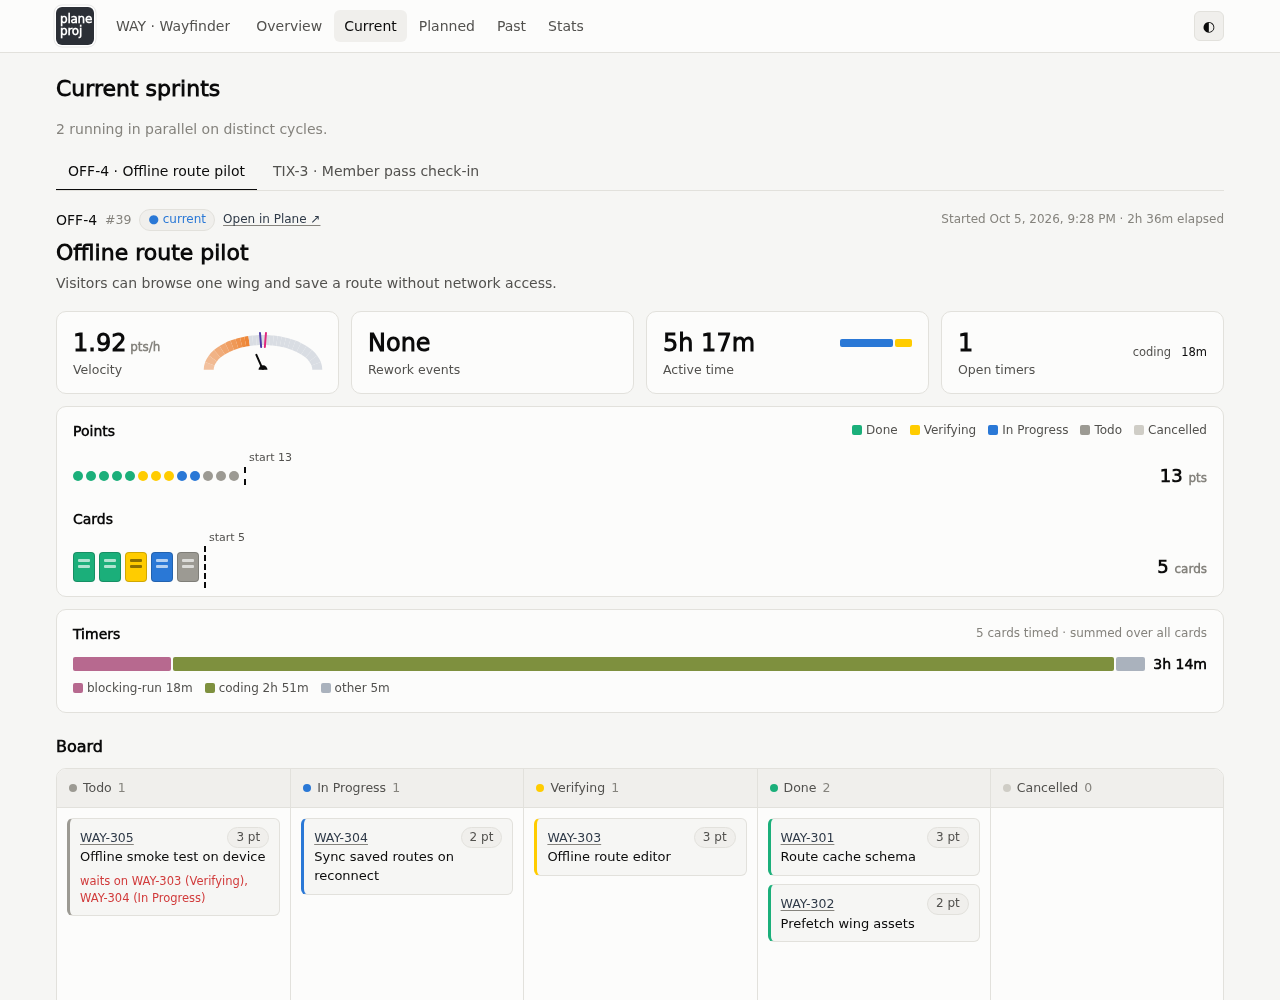
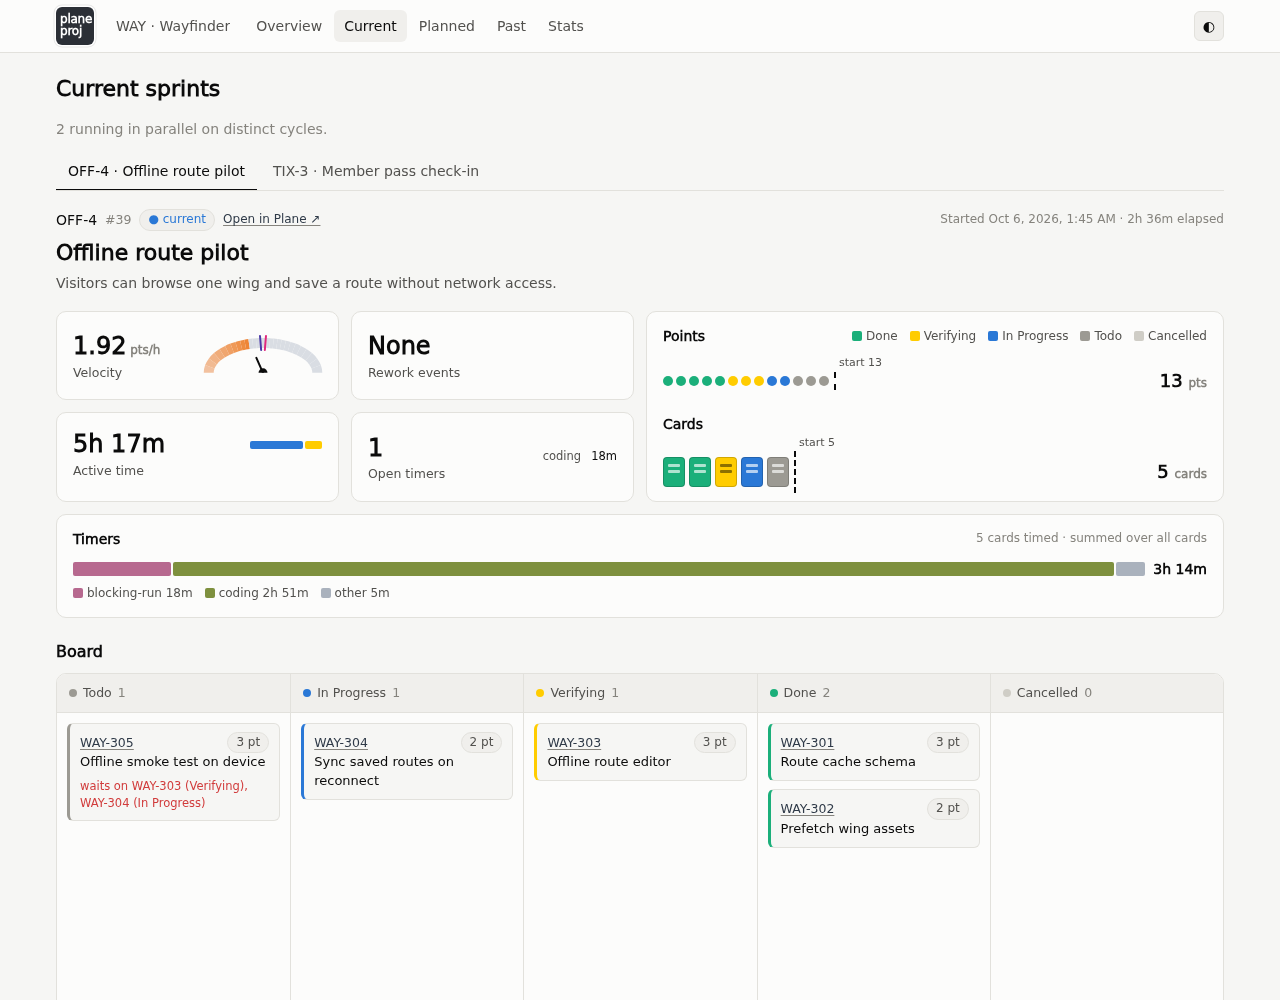
feat(web): Current tiles as 2 x 2 beside the points and cards panel
With points as dots, the full-width points panel was mostly empty. The
four tiles now sit as a 2 x 2 grid on the left half and the points and
cards panel takes the right half. Below 900 px the panel follows the
tiles in one column.

Verification: pytest, ruff check, rumdl check pass. Checked in the demo
at 1280 px (tiles left, panel right) and 390 px (panel below the 2 x 2
tiles); Current screenshot refreshed.

Claude-Session: https://claude.ai/code/session_01FgdVYP9r5FsBvYhXWxvHnT

diff --git a/src/plane_proj/web.html b/src/plane_proj/web.html
@@ -209,6 +209,12 @@ span.sk.inline { display: inline-block; vertical-align: middle; }
 /* velocity dial */
 .dial { display: block; overflow: visible; }
 .gwrap { height: 34px; margin-top: 8px; }
+/* Current: the four tiles as 2 x 2 on the left, points and cards on the
+   right; one column on narrow screens. */
+.cur-top { display: grid; grid-template-columns: 1fr 1fr; gap: 12px; margin-top: 18px; }
+.cur-top > .card { margin-top: 0 !important; }
+.quad { grid-template-columns: 1fr 1fr; }
+@media (max-width: 900px) { .cur-top { grid-template-columns: 1fr; } }
 .kpi.side { display: flex; align-items: center; justify-content: space-between; gap: 8px; }
 .kpi.side > :first-child { flex: none; }
 /* The dial shrinks in a narrow tile instead of overflowing it. */
@@ -607,7 +613,7 @@ V.currentOne = s => {
     <span class="muted small">Started ${fullDate(s.started)} · ${fmtH(el)} elapsed</span></div>
   <h1 style="margin-top:6px">${esc(s.title)}</h1><p class="goal">${esc(s.goal)}</p>
 
-  <div class="grid g4" style="margin-top:18px">
+  <div class="cur-top"><div class="grid quad">
     ${PARTIAL && POINTS ? `<div class="card kpi side"><div><div class="v">${skInline('90px', 24)}</div><div class="l">${skInline('60px', 12)}</div></div>
       ${sk('118px', 34)}</div>` : ''}
     ${vel != null ? `<div class="card kpi side"><div><div class="v">${num(vel, 2)}<span class="muted small"> pts/h</span></div><div class="l">Velocity</div></div>
@@ -618,7 +624,7 @@ V.currentOne = s => {
     <div class="card kpi side"><div><div class="v">${openT.length || 'None'}</div><div class="l">Open timers</div></div>
       ${miniTable(openT.sort((a, b) => b[1] - a[1]), fmtMin)}</div>
   </div>
-  ${summaryCard(s, cards)}
+  ${summaryCard(s, cards)}</div>
   <div class="card" style="margin-top:12px"><div class="row"><h3 style="margin:0">Timers</h3><span class="sp"></span>
     <span class="muted small">${t.timed_cards ?? 0} cards timed · summed over all cards</span></div>
     <div class="row" style="flex-wrap:nowrap;margin:10px 0 6px"><div style="display:flex;height:14px;gap:2px;flex:1">${exec.map(([, v, tp, c]) => `<span style="flex:${v};background:${c};border-radius:2px" data-tip="${esc(tp)}"></span>`).join('')}</div>
